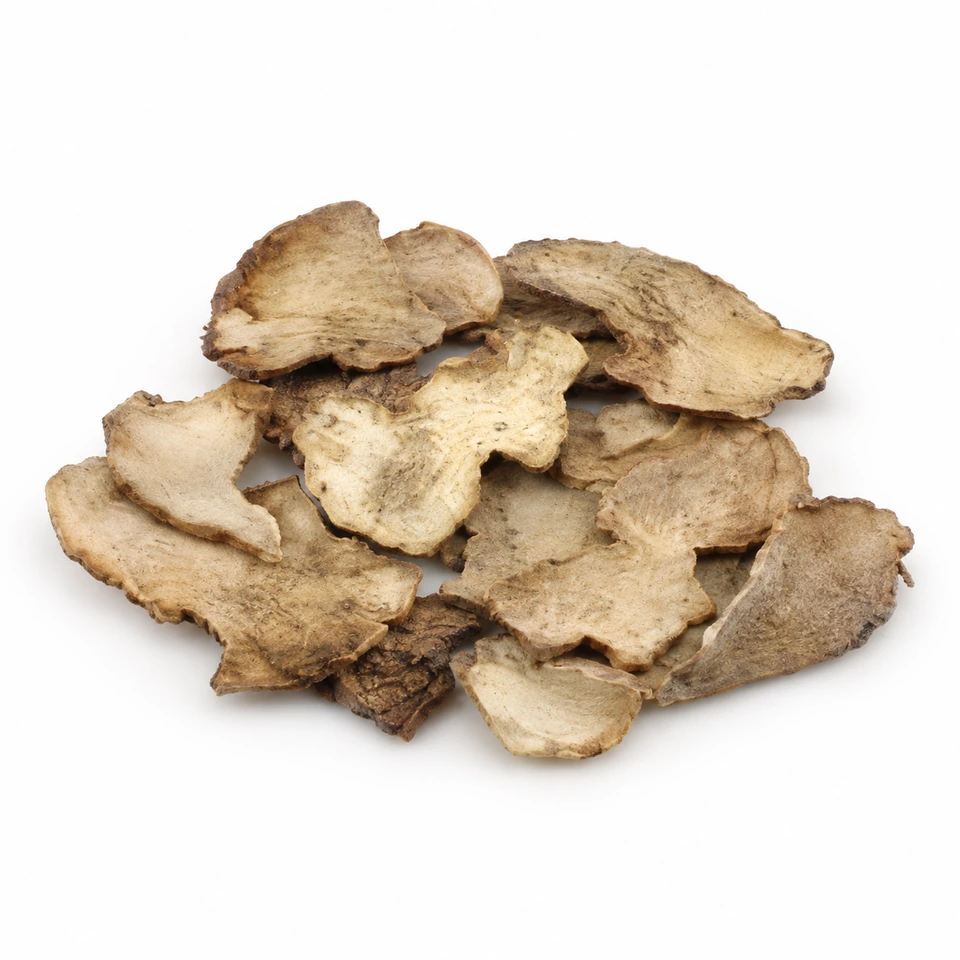
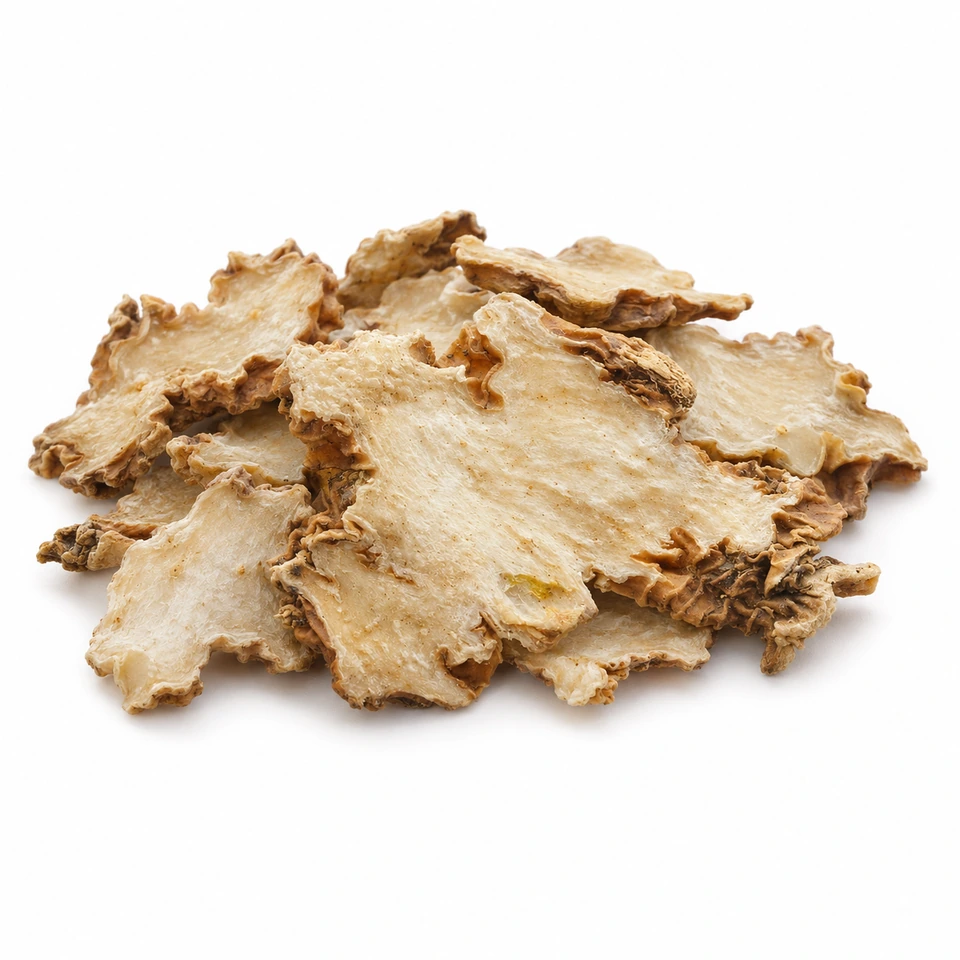
Replace poria bletilla and dictamnus photos with approved revised references

diff --git a/app/ProductImage.js b/app/ProductImage.js
@@ -8,7 +8,7 @@ export default function ProductImage({ src, name, origin }) {
   const visible = Boolean(src) && !failed;
   const reference = src?.startsWith("/products-reference/");
   const localPhoto = reference || src?.startsWith("/products/");
-  const imageSrc = localPhoto ? `${src}${src.includes("?") ? "&" : "?"}photo=${src.split("?")[0] === "/products-reference/uniform-20261029/herb-001.webp" ? "gaja-20261117-v1" : src.split("?")[0] === "/products-reference/uniform-20261029/herb-003-v2.webp" ? "galgeun-20261117-v1" : src.split("?")[0] === "/products-reference/uniform-20261029/herb-004.webp" ? "galhwa-20261118-v1" : src.split("?")[0] === "/products-reference/uniform-20261029/herb-005.webp" ? "gamguk-20261118-v1" : src.split("?")[0] === "/products-reference/uniform-20261029/gamin-geomin.webp" ? "geomin-20261118-v1" : src.split("?")[0] === "/products-reference/uniform-20261029/herb-007.webp" ? "licorice-20261118-v1" : src.split("?")[0] === "/products-reference/uniform-20261029/gamcho-yangwai1-20261118.webp" ? "yangwai1-20261118-v3" : src.split("?")[0] === "/products-reference/uniform-20261029/gamcho-roasted-v2.webp" ? "roasted-20261118-v2" : src.split("?")[0].startsWith("/products-reference/uniform-20261029/gamcho-roasted-") ? "roasted-20261118-v2" : src.split("?")[0] === "/products-reference/uniform-20261029/herb-008.webp" ? "ganghwal-20261118-v1" : src.split("?")[0] === "/products-reference/uniform-20261029/herb-009-v2.webp" ? "jamganghwal-20261118-v3" : src.split("?")[0] === "/products-reference/uniform-20261029/herb-010.webp" ? "ganghwang-20261118-v2" : src.split("?")[0] === "/products-reference/uniform-20261029/herb-011.webp" ? "gaeja-20261118-v1" : src.split("?")[0] === "/products-reference/uniform-20261029/herb-012.webp" ? "ginger-20261118-v3" : src.split("?")[0] === "/products-reference/uniform-20261029/herb-013-v2.webp" ? "ginger-roasted-20261118-v1" : src.split("?")[0] === "/products-reference/uniform-20261029/ginger-domestic-20261118.webp" ? "ginger-domestic-20261118-v2" : src.split("?")[0] === "/products-reference/uniform-20261029/herb-014-v3.webp" ? "chestnut-20261118-v1" : src.split("?")[0] === "/products-reference/uniform-20261029/herb-015-v2.webp" ? "pharbitis-20261118-v1" : src.split("?")[0] === "/products-reference/uniform-20261029/herb-016.webp" ? "cassia-20261118-v1" : src.split("?")[0] === "/products-reference/uniform-20261029/herb-017-v2.webp" ? "gizzard-20261118-v1" : src.split("?")[0] === "/products-reference/uniform-20261029/herb-018-v2.webp" ? "gizzard-roasted-20261118-v1" : src.split("?")[0] === "/products-reference/uniform-20261029/herb-019-v3.webp" ? "twig-20261118-v1" : src.split("?")[0] === "/products-reference/uniform-20261029/herb-020.webp" ? "vine-20261118-v1" : src.split("?")[0] === "/products-reference/uniform-20261029/herb-021.webp" ? "galangal-20261118-v1" : src.split("?")[0] === "/products-reference/uniform-20261029/gobon-domestic-20261118.webp" ? "gobon-dom-20261118-v1" : src.split("?")[0] === "/products-reference/uniform-20261029/herb-022.webp" ? "gobon-imp-20261118-v1" : src.split("?")[0] === "/products-reference/uniform-20261029/herb-023-v2.webp" ? "sophora-20261118-v1" : src.split("?")[0] === "/products-reference/uniform-20261029/herb-024-v2.webp" ? "mistletoe-20261118-v1" : src.split("?")[0] === "/products-reference/uniform-20261029/herb-025.webp" ? "rice-20261118-v1" : src.split("?")[0] === "/products-reference/uniform-20261029/herb-026-v2.webp" ? "drynaria-20261118-v1" : src.split("?")[0] === "/products-reference/uniform-20261029/herb-027-v2.webp" ? "fruit-20261118-v1" : src.split("?")[0] === "/products-reference/uniform-20261029/gwakhyang.webp" ? "agastache-20261118-v1" : src.split("?")[0] === "/products-reference/uniform-20261029/herb-028-v2.webp" ? "coltsfoot-20261118-v1" : src.split("?")[0] === "/products-reference/uniform-20261029/gwallugeun-domestic-20261118.webp" ? "trich-dom-20261118-v1" : src.split("?")[0] === "/products-reference/uniform-20261029/herb-029-v2.webp" ? "trich-imp-20261118-v1" : src.split("?")[0] === "/products-reference/uniform-20261029/herb-031.webp" ? "seed-whole-20261119-v1" : src.split("?")[0] === "/products-reference/uniform-20261029/herb-030-v2.webp" ? "seed-coarse-20261119-v1" : src.split("?")[0] === "/products-reference/uniform-20261029/herb-032-v3.webp" ? "patchouli-20261119-v1" : src.split("?")[0] === "/products-reference/uniform-20261029/herb-033-v3.webp" ? "sophorabud-20261119-v1" : src.split("?")[0] === "/products-reference/uniform-20261029/gugija-domestic-20261119.webp" ? "goji-dom-20261119-v1" : src.split("?")[0] === "/products-reference/uniform-20261029/gugija-large-20261119.webp" ? "goji-large-20261119-v1" : src.split("?")[0] === "/products-reference/uniform-20261029/gugija-premium-20261119.webp" ? "goji-premium-20261119-v2" : src.split("?")[0] === "/products-reference/uniform-20261029/herb-035-v2.webp" ? "dianthus-20261119-v1" : src.split("?")[0] === "/products-reference/uniform-20261029/herb-036.webp" ? "chiveseed-20261119-v1" : src.split("?")[0] === "/products-reference/uniform-20261029/gujeolcho.webp" ? "gujeolcho-20261119-v1" : src.split("?")[0] === "/products-reference/uniform-20261029/herb-037-v2.webp" ? "cibotium-20261119-v1" : src.split("?")[0] === "/products-reference/uniform-20261029/herb-038.webp" ? "plastron-20261119-v1" : src.split("?")[0] === "/products-reference/uniform-20261029/herb-040-v2.webp" ? "rosefruit-20261119-v1" : src.split("?")[0] === "/products-reference/uniform-20261029/herb-041-v3.webp" ? "honeysuckle-20261119-v1" : src.split("?")[0] === "/products-reference/uniform-20261029/herb-042.webp" ? "lysimachia-20261119-v1" : src.split("?")[0] === "/products-reference/uniform-20261029/gilgyeong-domestic-20261119.webp" ? "platy-dom-20261119-v1" : src.split("?")[0] === "/products-reference/uniform-20261029/herb-043-v2.webp" ? "platy-imp-20261119-v1" : src.split("?")[0] === "/products-reference/uniform-20261029/herb-044-v2.webp" ? "radish-20261119-v2" : src.split("?")[0] === "/products-reference/uniform-20261029/herb-048-v2.webp" ? "radish-coarse-20261119-v1" : src.split("?")[0] === "/products-reference/uniform-20261029/herb-046-v2.webp" ? "arisaema-20261119-v1" : src.split("?")[0] === "/products-reference/uniform-20261029/herb-047-v2.webp" ? "arisaema-alum-20261119-v1" : src.split("?")[0] === "/products-reference/uniform-20261029/herb-045-v2.webp" ? "vinecut-20261119-v1" : src.split("?")[0] === "/products-reference/uniform-20261029/herb-049-v2.webp" ? "radish-roasted-20261119-v2" : src.split("?")[0] === "/products-reference/uniform-20261029/herb-050-v2.webp" ? "reed-20261119-v1" : src.split("?")[0] === "/products-reference/uniform-20261029/herb-051-v2.webp" ? "antler-package-20261119-v1" : src.split("?")[0] === "/products-reference/uniform-20261029/herb-052-v2.webp" ? "salvia-20261119-v1" : src.split("?")[0] === "/products-reference/uniform-20261029/danggui-domestic-20261119.webp" ? "angel-dom-20261119-v2" : src.split("?")[0] === "/products-reference/uniform-20261029/herb-056-v2.webp" ? "angel-tail-20261119-v1" : src.split("?")[0] === "/products-reference/uniform-20261029/herb-054-v2.webp" ? "angel-imp-20261119-v1" : src.split("?")[0] === "/products-reference/uniform-20261029/herb-057.webp" ? "angel-body-20261119-v2" : src.split("?")[0] === "/products-reference/uniform-20261029/damdusi-package-20261119.webp" ? "soypackage-20261119-v1" : src.split("?")[0] === "/products-reference/uniform-20261029/herb-058-v2.webp" ? "codonopsis-20261119-v1" : src.split("?")[0] === "/products-reference/uniform-20261029/herb-059-v2.webp" ? "arecahusk-20261119-v1" : src.split("?")[0] === "/products-reference/uniform-20261029/herb-060.webp" ? "isatisleaf-20261119-v1" : src.split("?")[0] === "/products-reference/uniform-20261029/herb-063.webp" ? "jujubeslice-20261119-v1" : src.split("?")[0] === "/products-reference/uniform-20261029/herb-064.webp" ? "rhubarb-20261119-v1" : src.split("?")[0] === "/products-reference/uniform-20261029/herb-067-v2.webp" ? "rhubarb-steamed-20261119-v1" : src.split("?")[0] === "/products-reference/uniform-20261029/herb-070-v2.webp" ? "peach-cut-20261119-v1" : src.split("?")[0] === "/products-reference/uniform-20261029/herb-065.webp" ? "rhubarb-longleaf-20261119-v1" : src.split("?")[0] === "/products-reference/uniform-20261029/herb-250.webp" ? "rhubarb-small-20261119-v1" : src.split("?")[0] === "/products-reference/uniform-20261029/herb-066.webp" ? "rhubarb-small-20261119-v1" : src.split("?")[0] === "/products-reference/uniform-20261029/herb-069.webp" ? "peach-whole-20261119-v1" : src.split("?")[0] === "/products-reference/uniform-20261029/herb-072-v2.webp" ? "donggwaja-20261119-v1" : src.split("?")[0] === "/products-reference/uniform-20261029/herb-075.webp" ? "duchung-20261119-v1" : src.split("?")[0] === "/products-reference/uniform-20261029/herb-076-20261027.webp" ? "duchung-salt-20261119-v1" : src.split("?")[0] === "/products-reference/uniform-20261029/herb-077-20261027.webp" ? "deungpi-20261119-v1" : src.split("?")[0] === "/products-reference/uniform-20261029/dokhwal-domestic-20261120.webp" ? "dokhwal-dom-20261120-v1" : src.split("?")[0] === "/products-reference/uniform-20261029/dokhwal-import-20261120.webp" ? "dokhwal-imp-20261120-v1" : src.split("?")[0] === "/products-reference/uniform-20261029/deungsimcho-20261120.webp" ? "deungsimcho-20261120" : src.split("?")[0] === "/products-reference/uniform-20261029/dokhwal-import-20261120-v2.webp" ? "dokhwal-import-20261120-v2" : src.split("?")[0] === "/products-reference/uniform-20261029/herb-078-20261027.webp" ? "rowan-20261120-v1" : src.split("?")[0] === "/products-reference/uniform-20261029/herb-079-20261029-revised.webp" ? "ephedra-20261120-v1" : src.split("?")[0] === "/products-reference/uniform-20261029/herb-080-20261027.webp" ? "ephedra-processed-20261120-v1" : src.split("?")[0] === "/products-reference/uniform-20261029/herb-081-20261027.webp" ? "vitex-20261120-v1" : src.split("?")[0] === "/products-reference/uniform-20261029/herb-082-20261027.webp" ? "mirabilite-20261120-v1" : src.split("?")[0] === "/products-reference/uniform-20261029/maekmundong-domestic-20261120-v2.webp" ? "maekmundong-domestic-20261120-v2" : src.split("?")[0] === "/products-reference/uniform-20261029/maekmundong-import-20261120.webp" ? "maekmundong-import-20261120-v1" : src.split("?")[0] === "/products-reference/uniform-20261029/maekmundong-regular-20261120.webp" ? "maekmundong-regular-20261120-v1" : src.split("?")[0] === "/products-reference/uniform-20261029/herb-084.webp" ? "malt-package-20261120-v1" : src.split("?")[0] === "/products-reference/uniform-20261029/memil-gyomaek-v2.webp" ? "buckwheat-husk-20261120-v1" : src.split("?")[0] === "/products-reference/uniform-20261029/herb-086-20261027.webp" ? "quince-20261120-v1" : src.split("?")[0] === "/products-reference/uniform-20261029/herb-087.webp" ? "cogonroot-20261120-v1" : src.split("?")[0] === "/products-reference/uniform-20261029/herb-088.webp" ? "oystershell-20261120-v1" : src.split("?")[0] === "/products-reference/uniform-20261029/herb-089.webp" ? "oyster-powder-package-20261120-v1" : src.split("?")[0] === "/products-reference/uniform-20261029/mokdanpi-aa-20261120.webp" ? "mokdanpi-aa-20261120-v2" : src.split("?")[0] === "/products-reference/uniform-20261029/mokdanpi-large-20261120.webp" ? "mokdanpi-large-20261120-v2" : src.split("?")[0] === "/products-reference/uniform-20261029/herb-091-20261029-revised.webp" ? "horsetail-20261120-v1" : src.split("?")[0] === "/products-reference/uniform-20261029/herb-092-20261027.webp" ? "akebia-20261120-v1" : src.split("?")[0] === "/products-reference/uniform-20261029/herb-093-20261027.webp" ? "costus-20261120-v1" : src.split("?")[0] === "/products-reference/uniform-20261029/herb-094-20261027.webp" ? "myrrh-20261120-v1" : src.split("?")[0] === "/products-reference/uniform-20261029/bakha-cham.webp" ? "herbs-batch15-20261120-v1" : src.split("?")[0] === "/products-reference/uniform-20261029/herb-098-20261029-revised.webp" ? "herbs-batch15-20261120-v1" : src.split("?")[0] === "/products-reference/uniform-20261029/herb-100-20261029-revised.webp" ? "herbs-batch15-20261120-v1" : src.split("?")[0] === "/products-reference/uniform-20261029/herb-101-20261027.webp" ? "herbs-batch15-20261120-v1" : src.split("?")[0] === "/products-reference/uniform-20261029/herb-102-20261027.webp" ? "herbs-batch15-20261120-v1" : src.split("?")[0] === "/products-reference/uniform-20261029/herb-103-20261027.webp" ? "herbs-batch15-20261120-v1" : src.split("?")[0] === "/products-reference/uniform-20261029/baekgulchae.webp" ? "herbs-batch15-20261120-v1" : src.split("?")[0] === "/products-reference/uniform-20261029/herb-106.webp" ? "herbs-batch-next15-20261120-v1" : src.split("?")[0] === "/products-reference/uniform-20261029/baekdugu-geopi.webp" ? "herbs-batch15-20261120-v1" : src.split("?")[0] === "/products-reference/uniform-20261029/baekdugu-yupi-chumal-v2.webp" ? "herbs-batch15-20261120-v1" : src.split("?")[0] === "/products-reference/uniform-20261029/herb-109-20261027.webp" ? "herbs-batch15-20261120-v1" : src.split("?")[0] === "/products-reference/uniform-20261029/herb-110-20261027.webp" ? "herbs-batch15-20261120-v1" : src.split("?")[0] === "/products-reference/uniform-20261029/herb-112-20261027.webp" ? "herbs-batch15-20261120-v1" : src.split("?")[0] === "/products-reference/uniform-20261029/baekbuja-gwan-v2.webp" ? "herbs-batch15-20261120-v1" : src.split("?")[0] === "/products-reference/uniform-20261029/herb-114-20261027.webp" ? "herbs-batch15-20261120-v1" : src.split("?")[0] === "/products-reference/uniform-20261029/herb-115-20261027.webp" ? "herbs-batch-next15-20261120-v1" : src.split("?")[0] === "/products-reference/uniform-20261029/herb-116-20261027.webp" ? "herbs-batch-next15-20261120-v1" : src.split("?")[0] === "/products-reference/uniform-20261029/herb-117-20261027.webp" ? "herbs-batch-next15-20261120-v1" : src.split("?")[0] === "/products-reference/uniform-20261029/herb-118-20261027.webp" ? "herbs-batch-next15-20261120-v1" : src.split("?")[0] === "/products-reference/uniform-20261029/herb-119-20261027.webp" ? "herbs-batch-next15-20261120-v1" : src.split("?")[0] === "/products-reference/uniform-20261029/baekchul-dongbuk.webp" ? "herbs-batch-next15-20261120-v1" : src.split("?")[0] === "/products-reference/uniform-20261029/herb-120-20261027.webp" ? "herbs-batch-next15-20261120-v1" : src.split("?")[0] === "/products-reference/uniform-20261029/herb-126.webp" ? "herbs-batch-next15-20261120-v1" : src.split("?")[0] === "/products-reference/uniform-20261029/herb-127-20261027-c.webp" ? "herbs-batch-next15-20261120-v1" : src.split("?")[0] === "/products-reference/uniform-20261029/herb-128-20261027-c.webp" ? "herbs-batch-next15-20261120-v1" : src.split("?")[0] === "/products-reference/uniform-20261029/herb-129-20261027-c.webp" ? "herbs-batch-next15-20261120-v1" : src.split("?")[0] === "/products-reference/uniform-20261029/bokryeong-yasaeng.webp" ? "herbs-batch-next15-20261120-v1" : src.split("?")[0] === "/products-reference/uniform-20261029/herb-130-20261027-c.webp" ? "herbs-batch-next15-20261120-v1" : src.split("?")[0] === "/products-reference/uniform-20261029/herb-134-20261027-c.webp" ? "herbs-batch-next15-20261120-v1" : src.split("?")[0] === "/products-reference/uniform-20261029/herb-135-20261027-c.webp" ? "herbs-batch11-20261120-v1" : src.split("?")[0] === "/products-reference/uniform-20261029/herb-131-20261027-c.webp" ? "herbs-batch11-20261120-v1" : src.split("?")[0] === "/products-reference/uniform-20261029/buja-gyeongpo.webp" ? "herbs-batch11-20261120-v1" : src.split("?")[0] === "/products-reference/uniform-20261029/bupyeongcho.webp" ? "herbs-batch11-20261120-v1" : src.split("?")[0] === "/products-reference/uniform-20261029/herb-138-20261027-c.webp" ? "herbs-batch11-20261120-v1" : src.split("?")[0] === "/products-reference/uniform-20261029/herb-139-20261027-c.webp" ? "herbs-batch11-20261120-v1" : src.split("?")[0] === "/products-reference/uniform-20261029/herb-104-20261027-c.webp" ? "herbs-batch11-20261120-v1" : src.split("?")[0] === "/products-reference/uniform-20261029/herb-099-20261027.webp" ? "herbs-batch11-20261120-v1" : src.split("?")[0] === "/products-reference/uniform-20261029/herb-132-20261027-c.webp" ? "herbs-batch11-20261120-v1" : src.split("?")[0] === "/products-reference/uniform-20261029/herb-133-20261027-c.webp" ? "herbs-batch11-20261120-v1" : src.split("?")[0] === "/products-reference/uniform-20261029/herb-137-20261027-c.webp" ? "herbs-batch11-20261120-v1" : src.split("?")[0] === "/products-reference/uniform-20261029/herb-123-20261027-c.webp" ? "baekchulcho-20261120-v1" : "linen-20261116-v2"}` : src;
+  const imageSrc = localPhoto ? `${src}${src.includes("?") ? "&" : "?"}photo=${src.split("?")[0] === "/products-reference/uniform-20261029/herb-001.webp" ? "gaja-20261117-v1" : src.split("?")[0] === "/products-reference/uniform-20261029/herb-003-v2.webp" ? "galgeun-20261117-v1" : src.split("?")[0] === "/products-reference/uniform-20261029/herb-004.webp" ? "galhwa-20261118-v1" : src.split("?")[0] === "/products-reference/uniform-20261029/herb-005.webp" ? "gamguk-20261118-v1" : src.split("?")[0] === "/products-reference/uniform-20261029/gamin-geomin.webp" ? "geomin-20261118-v1" : src.split("?")[0] === "/products-reference/uniform-20261029/herb-007.webp" ? "licorice-20261118-v1" : src.split("?")[0] === "/products-reference/uniform-20261029/gamcho-yangwai1-20261118.webp" ? "yangwai1-20261118-v3" : src.split("?")[0] === "/products-reference/uniform-20261029/gamcho-roasted-v2.webp" ? "roasted-20261118-v2" : src.split("?")[0].startsWith("/products-reference/uniform-20261029/gamcho-roasted-") ? "roasted-20261118-v2" : src.split("?")[0] === "/products-reference/uniform-20261029/herb-008.webp" ? "ganghwal-20261118-v1" : src.split("?")[0] === "/products-reference/uniform-20261029/herb-009-v2.webp" ? "jamganghwal-20261118-v3" : src.split("?")[0] === "/products-reference/uniform-20261029/herb-010.webp" ? "ganghwang-20261118-v2" : src.split("?")[0] === "/products-reference/uniform-20261029/herb-011.webp" ? "gaeja-20261118-v1" : src.split("?")[0] === "/products-reference/uniform-20261029/herb-012.webp" ? "ginger-20261118-v3" : src.split("?")[0] === "/products-reference/uniform-20261029/herb-013-v2.webp" ? "ginger-roasted-20261118-v1" : src.split("?")[0] === "/products-reference/uniform-20261029/ginger-domestic-20261118.webp" ? "ginger-domestic-20261118-v2" : src.split("?")[0] === "/products-reference/uniform-20261029/herb-014-v3.webp" ? "chestnut-20261118-v1" : src.split("?")[0] === "/products-reference/uniform-20261029/herb-015-v2.webp" ? "pharbitis-20261118-v1" : src.split("?")[0] === "/products-reference/uniform-20261029/herb-016.webp" ? "cassia-20261118-v1" : src.split("?")[0] === "/products-reference/uniform-20261029/herb-017-v2.webp" ? "gizzard-20261118-v1" : src.split("?")[0] === "/products-reference/uniform-20261029/herb-018-v2.webp" ? "gizzard-roasted-20261118-v1" : src.split("?")[0] === "/products-reference/uniform-20261029/herb-019-v3.webp" ? "twig-20261118-v1" : src.split("?")[0] === "/products-reference/uniform-20261029/herb-020.webp" ? "vine-20261118-v1" : src.split("?")[0] === "/products-reference/uniform-20261029/herb-021.webp" ? "galangal-20261118-v1" : src.split("?")[0] === "/products-reference/uniform-20261029/gobon-domestic-20261118.webp" ? "gobon-dom-20261118-v1" : src.split("?")[0] === "/products-reference/uniform-20261029/herb-022.webp" ? "gobon-imp-20261118-v1" : src.split("?")[0] === "/products-reference/uniform-20261029/herb-023-v2.webp" ? "sophora-20261118-v1" : src.split("?")[0] === "/products-reference/uniform-20261029/herb-024-v2.webp" ? "mistletoe-20261118-v1" : src.split("?")[0] === "/products-reference/uniform-20261029/herb-025.webp" ? "rice-20261118-v1" : src.split("?")[0] === "/products-reference/uniform-20261029/herb-026-v2.webp" ? "drynaria-20261118-v1" : src.split("?")[0] === "/products-reference/uniform-20261029/herb-027-v2.webp" ? "fruit-20261118-v1" : src.split("?")[0] === "/products-reference/uniform-20261029/gwakhyang.webp" ? "agastache-20261118-v1" : src.split("?")[0] === "/products-reference/uniform-20261029/herb-028-v2.webp" ? "coltsfoot-20261118-v1" : src.split("?")[0] === "/products-reference/uniform-20261029/gwallugeun-domestic-20261118.webp" ? "trich-dom-20261118-v1" : src.split("?")[0] === "/products-reference/uniform-20261029/herb-029-v2.webp" ? "trich-imp-20261118-v1" : src.split("?")[0] === "/products-reference/uniform-20261029/herb-031.webp" ? "seed-whole-20261119-v1" : src.split("?")[0] === "/products-reference/uniform-20261029/herb-030-v2.webp" ? "seed-coarse-20261119-v1" : src.split("?")[0] === "/products-reference/uniform-20261029/herb-032-v3.webp" ? "patchouli-20261119-v1" : src.split("?")[0] === "/products-reference/uniform-20261029/herb-033-v3.webp" ? "sophorabud-20261119-v1" : src.split("?")[0] === "/products-reference/uniform-20261029/gugija-domestic-20261119.webp" ? "goji-dom-20261119-v1" : src.split("?")[0] === "/products-reference/uniform-20261029/gugija-large-20261119.webp" ? "goji-large-20261119-v1" : src.split("?")[0] === "/products-reference/uniform-20261029/gugija-premium-20261119.webp" ? "goji-premium-20261119-v2" : src.split("?")[0] === "/products-reference/uniform-20261029/herb-035-v2.webp" ? "dianthus-20261119-v1" : src.split("?")[0] === "/products-reference/uniform-20261029/herb-036.webp" ? "chiveseed-20261119-v1" : src.split("?")[0] === "/products-reference/uniform-20261029/gujeolcho.webp" ? "gujeolcho-20261119-v1" : src.split("?")[0] === "/products-reference/uniform-20261029/herb-037-v2.webp" ? "cibotium-20261119-v1" : src.split("?")[0] === "/products-reference/uniform-20261029/herb-038.webp" ? "plastron-20261119-v1" : src.split("?")[0] === "/products-reference/uniform-20261029/herb-040-v2.webp" ? "rosefruit-20261119-v1" : src.split("?")[0] === "/products-reference/uniform-20261029/herb-041-v3.webp" ? "honeysuckle-20261119-v1" : src.split("?")[0] === "/products-reference/uniform-20261029/herb-042.webp" ? "lysimachia-20261119-v1" : src.split("?")[0] === "/products-reference/uniform-20261029/gilgyeong-domestic-20261119.webp" ? "platy-dom-20261119-v1" : src.split("?")[0] === "/products-reference/uniform-20261029/herb-043-v2.webp" ? "platy-imp-20261119-v1" : src.split("?")[0] === "/products-reference/uniform-20261029/herb-044-v2.webp" ? "radish-20261119-v2" : src.split("?")[0] === "/products-reference/uniform-20261029/herb-048-v2.webp" ? "radish-coarse-20261119-v1" : src.split("?")[0] === "/products-reference/uniform-20261029/herb-046-v2.webp" ? "arisaema-20261119-v1" : src.split("?")[0] === "/products-reference/uniform-20261029/herb-047-v2.webp" ? "arisaema-alum-20261119-v1" : src.split("?")[0] === "/products-reference/uniform-20261029/herb-045-v2.webp" ? "vinecut-20261119-v1" : src.split("?")[0] === "/products-reference/uniform-20261029/herb-049-v2.webp" ? "radish-roasted-20261119-v2" : src.split("?")[0] === "/products-reference/uniform-20261029/herb-050-v2.webp" ? "reed-20261119-v1" : src.split("?")[0] === "/products-reference/uniform-20261029/herb-051-v2.webp" ? "antler-package-20261119-v1" : src.split("?")[0] === "/products-reference/uniform-20261029/herb-052-v2.webp" ? "salvia-20261119-v1" : src.split("?")[0] === "/products-reference/uniform-20261029/danggui-domestic-20261119.webp" ? "angel-dom-20261119-v2" : src.split("?")[0] === "/products-reference/uniform-20261029/herb-056-v2.webp" ? "angel-tail-20261119-v1" : src.split("?")[0] === "/products-reference/uniform-20261029/herb-054-v2.webp" ? "angel-imp-20261119-v1" : src.split("?")[0] === "/products-reference/uniform-20261029/herb-057.webp" ? "angel-body-20261119-v2" : src.split("?")[0] === "/products-reference/uniform-20261029/damdusi-package-20261119.webp" ? "soypackage-20261119-v1" : src.split("?")[0] === "/products-reference/uniform-20261029/herb-058-v2.webp" ? "codonopsis-20261119-v1" : src.split("?")[0] === "/products-reference/uniform-20261029/herb-059-v2.webp" ? "arecahusk-20261119-v1" : src.split("?")[0] === "/products-reference/uniform-20261029/herb-060.webp" ? "isatisleaf-20261119-v1" : src.split("?")[0] === "/products-reference/uniform-20261029/herb-063.webp" ? "jujubeslice-20261119-v1" : src.split("?")[0] === "/products-reference/uniform-20261029/herb-064.webp" ? "rhubarb-20261119-v1" : src.split("?")[0] === "/products-reference/uniform-20261029/herb-067-v2.webp" ? "rhubarb-steamed-20261119-v1" : src.split("?")[0] === "/products-reference/uniform-20261029/herb-070-v2.webp" ? "peach-cut-20261119-v1" : src.split("?")[0] === "/products-reference/uniform-20261029/herb-065.webp" ? "rhubarb-longleaf-20261119-v1" : src.split("?")[0] === "/products-reference/uniform-20261029/herb-250.webp" ? "rhubarb-small-20261119-v1" : src.split("?")[0] === "/products-reference/uniform-20261029/herb-066.webp" ? "rhubarb-small-20261119-v1" : src.split("?")[0] === "/products-reference/uniform-20261029/herb-069.webp" ? "peach-whole-20261119-v1" : src.split("?")[0] === "/products-reference/uniform-20261029/herb-072-v2.webp" ? "donggwaja-20261119-v1" : src.split("?")[0] === "/products-reference/uniform-20261029/herb-075.webp" ? "duchung-20261119-v1" : src.split("?")[0] === "/products-reference/uniform-20261029/herb-076-20261027.webp" ? "duchung-salt-20261119-v1" : src.split("?")[0] === "/products-reference/uniform-20261029/herb-077-20261027.webp" ? "deungpi-20261119-v1" : src.split("?")[0] === "/products-reference/uniform-20261029/dokhwal-domestic-20261120.webp" ? "dokhwal-dom-20261120-v1" : src.split("?")[0] === "/products-reference/uniform-20261029/dokhwal-import-20261120.webp" ? "dokhwal-imp-20261120-v1" : src.split("?")[0] === "/products-reference/uniform-20261029/deungsimcho-20261120.webp" ? "deungsimcho-20261120" : src.split("?")[0] === "/products-reference/uniform-20261029/dokhwal-import-20261120-v2.webp" ? "dokhwal-import-20261120-v2" : src.split("?")[0] === "/products-reference/uniform-20261029/herb-078-20261027.webp" ? "rowan-20261120-v1" : src.split("?")[0] === "/products-reference/uniform-20261029/herb-079-20261029-revised.webp" ? "ephedra-20261120-v1" : src.split("?")[0] === "/products-reference/uniform-20261029/herb-080-20261027.webp" ? "ephedra-processed-20261120-v1" : src.split("?")[0] === "/products-reference/uniform-20261029/herb-081-20261027.webp" ? "vitex-20261120-v1" : src.split("?")[0] === "/products-reference/uniform-20261029/herb-082-20261027.webp" ? "mirabilite-20261120-v1" : src.split("?")[0] === "/products-reference/uniform-20261029/maekmundong-domestic-20261120-v2.webp" ? "maekmundong-domestic-20261120-v2" : src.split("?")[0] === "/products-reference/uniform-20261029/maekmundong-import-20261120.webp" ? "maekmundong-import-20261120-v1" : src.split("?")[0] === "/products-reference/uniform-20261029/maekmundong-regular-20261120.webp" ? "maekmundong-regular-20261120-v1" : src.split("?")[0] === "/products-reference/uniform-20261029/herb-084.webp" ? "malt-package-20261120-v1" : src.split("?")[0] === "/products-reference/uniform-20261029/memil-gyomaek-v2.webp" ? "buckwheat-husk-20261120-v1" : src.split("?")[0] === "/products-reference/uniform-20261029/herb-086-20261027.webp" ? "quince-20261120-v1" : src.split("?")[0] === "/products-reference/uniform-20261029/herb-087.webp" ? "cogonroot-20261120-v1" : src.split("?")[0] === "/products-reference/uniform-20261029/herb-088.webp" ? "oystershell-20261120-v1" : src.split("?")[0] === "/products-reference/uniform-20261029/herb-089.webp" ? "oyster-powder-package-20261120-v1" : src.split("?")[0] === "/products-reference/uniform-20261029/mokdanpi-aa-20261120.webp" ? "mokdanpi-aa-20261120-v2" : src.split("?")[0] === "/products-reference/uniform-20261029/mokdanpi-large-20261120.webp" ? "mokdanpi-large-20261120-v2" : src.split("?")[0] === "/products-reference/uniform-20261029/herb-091-20261029-revised.webp" ? "horsetail-20261120-v1" : src.split("?")[0] === "/products-reference/uniform-20261029/herb-092-20261027.webp" ? "akebia-20261120-v1" : src.split("?")[0] === "/products-reference/uniform-20261029/herb-093-20261027.webp" ? "costus-20261120-v1" : src.split("?")[0] === "/products-reference/uniform-20261029/herb-094-20261027.webp" ? "myrrh-20261120-v1" : src.split("?")[0] === "/products-reference/uniform-20261029/bakha-cham.webp" ? "herbs-batch15-20261120-v1" : src.split("?")[0] === "/products-reference/uniform-20261029/herb-098-20261029-revised.webp" ? "herbs-batch15-20261120-v1" : src.split("?")[0] === "/products-reference/uniform-20261029/herb-100-20261029-revised.webp" ? "herbs-batch15-20261120-v1" : src.split("?")[0] === "/products-reference/uniform-20261029/herb-101-20261027.webp" ? "herbs-batch15-20261120-v1" : src.split("?")[0] === "/products-reference/uniform-20261029/herb-102-20261027.webp" ? "herbs-batch15-20261120-v1" : src.split("?")[0] === "/products-reference/uniform-20261029/herb-103-20261027.webp" ? "herbs-batch15-20261120-v1" : src.split("?")[0] === "/products-reference/uniform-20261029/baekgulchae.webp" ? "herbs-batch15-20261120-v1" : src.split("?")[0] === "/products-reference/uniform-20261029/herb-106.webp" ? "herbs-redo3-20261120-v1" : src.split("?")[0] === "/products-reference/uniform-20261029/baekdugu-geopi.webp" ? "herbs-batch15-20261120-v1" : src.split("?")[0] === "/products-reference/uniform-20261029/baekdugu-yupi-chumal-v2.webp" ? "herbs-batch15-20261120-v1" : src.split("?")[0] === "/products-reference/uniform-20261029/herb-109-20261027.webp" ? "herbs-batch15-20261120-v1" : src.split("?")[0] === "/products-reference/uniform-20261029/herb-110-20261027.webp" ? "herbs-batch15-20261120-v1" : src.split("?")[0] === "/products-reference/uniform-20261029/herb-112-20261027.webp" ? "herbs-batch15-20261120-v1" : src.split("?")[0] === "/products-reference/uniform-20261029/baekbuja-gwan-v2.webp" ? "herbs-batch15-20261120-v1" : src.split("?")[0] === "/products-reference/uniform-20261029/herb-114-20261027.webp" ? "herbs-redo3-20261120-v1" : src.split("?")[0] === "/products-reference/uniform-20261029/herb-115-20261027.webp" ? "herbs-batch-next15-20261120-v1" : src.split("?")[0] === "/products-reference/uniform-20261029/herb-116-20261027.webp" ? "herbs-batch-next15-20261120-v1" : src.split("?")[0] === "/products-reference/uniform-20261029/herb-117-20261027.webp" ? "herbs-batch-next15-20261120-v1" : src.split("?")[0] === "/products-reference/uniform-20261029/herb-118-20261027.webp" ? "herbs-batch-next15-20261120-v1" : src.split("?")[0] === "/products-reference/uniform-20261029/herb-119-20261027.webp" ? "herbs-batch-next15-20261120-v1" : src.split("?")[0] === "/products-reference/uniform-20261029/baekchul-dongbuk.webp" ? "herbs-batch-next15-20261120-v1" : src.split("?")[0] === "/products-reference/uniform-20261029/herb-120-20261027.webp" ? "herbs-batch-next15-20261120-v1" : src.split("?")[0] === "/products-reference/uniform-20261029/herb-126.webp" ? "herbs-batch-next15-20261120-v1" : src.split("?")[0] === "/products-reference/uniform-20261029/herb-127-20261027-c.webp" ? "herbs-batch-next15-20261120-v1" : src.split("?")[0] === "/products-reference/uniform-20261029/herb-128-20261027-c.webp" ? "herbs-batch-next15-20261120-v1" : src.split("?")[0] === "/products-reference/uniform-20261029/herb-129-20261027-c.webp" ? "herbs-batch-next15-20261120-v1" : src.split("?")[0] === "/products-reference/uniform-20261029/bokryeong-yasaeng.webp" ? "herbs-batch-next15-20261120-v1" : src.split("?")[0] === "/products-reference/uniform-20261029/herb-130-20261027-c.webp" ? "herbs-redo3-20261120-v1" : src.split("?")[0] === "/products-reference/uniform-20261029/herb-134-20261027-c.webp" ? "herbs-batch-next15-20261120-v1" : src.split("?")[0] === "/products-reference/uniform-20261029/herb-135-20261027-c.webp" ? "herbs-batch11-20261120-v1" : src.split("?")[0] === "/products-reference/uniform-20261029/herb-131-20261027-c.webp" ? "herbs-batch11-20261120-v1" : src.split("?")[0] === "/products-reference/uniform-20261029/buja-gyeongpo.webp" ? "herbs-batch11-20261120-v1" : src.split("?")[0] === "/products-reference/uniform-20261029/bupyeongcho.webp" ? "herbs-batch11-20261120-v1" : src.split("?")[0] === "/products-reference/uniform-20261029/herb-138-20261027-c.webp" ? "herbs-batch11-20261120-v1" : src.split("?")[0] === "/products-reference/uniform-20261029/herb-139-20261027-c.webp" ? "herbs-batch11-20261120-v1" : src.split("?")[0] === "/products-reference/uniform-20261029/herb-104-20261027-c.webp" ? "herbs-batch11-20261120-v1" : src.split("?")[0] === "/products-reference/uniform-20261029/herb-099-20261027.webp" ? "herbs-batch11-20261120-v1" : src.split("?")[0] === "/products-reference/uniform-20261029/herb-132-20261027-c.webp" ? "herbs-batch11-20261120-v1" : src.split("?")[0] === "/products-reference/uniform-20261029/herb-133-20261027-c.webp" ? "herbs-batch11-20261120-v1" : src.split("?")[0] === "/products-reference/uniform-20261029/herb-137-20261027-c.webp" ? "herbs-batch11-20261120-v1" : src.split("?")[0] === "/products-reference/uniform-20261029/herb-123-20261027-c.webp" ? "baekchulcho-20261120-v1" : "linen-20261116-v2"}` : src;
   const domesticGalgeun = /^갈근(?:\s*\((?:사각|강원문막)\))?$/.test(name || "")
     && /국내산|국산|한국|대한민국/.test(origin || "")
     && src?.split("?")[0] === "/products-reference/uniform-20261029/herb-003-v2.webp";
